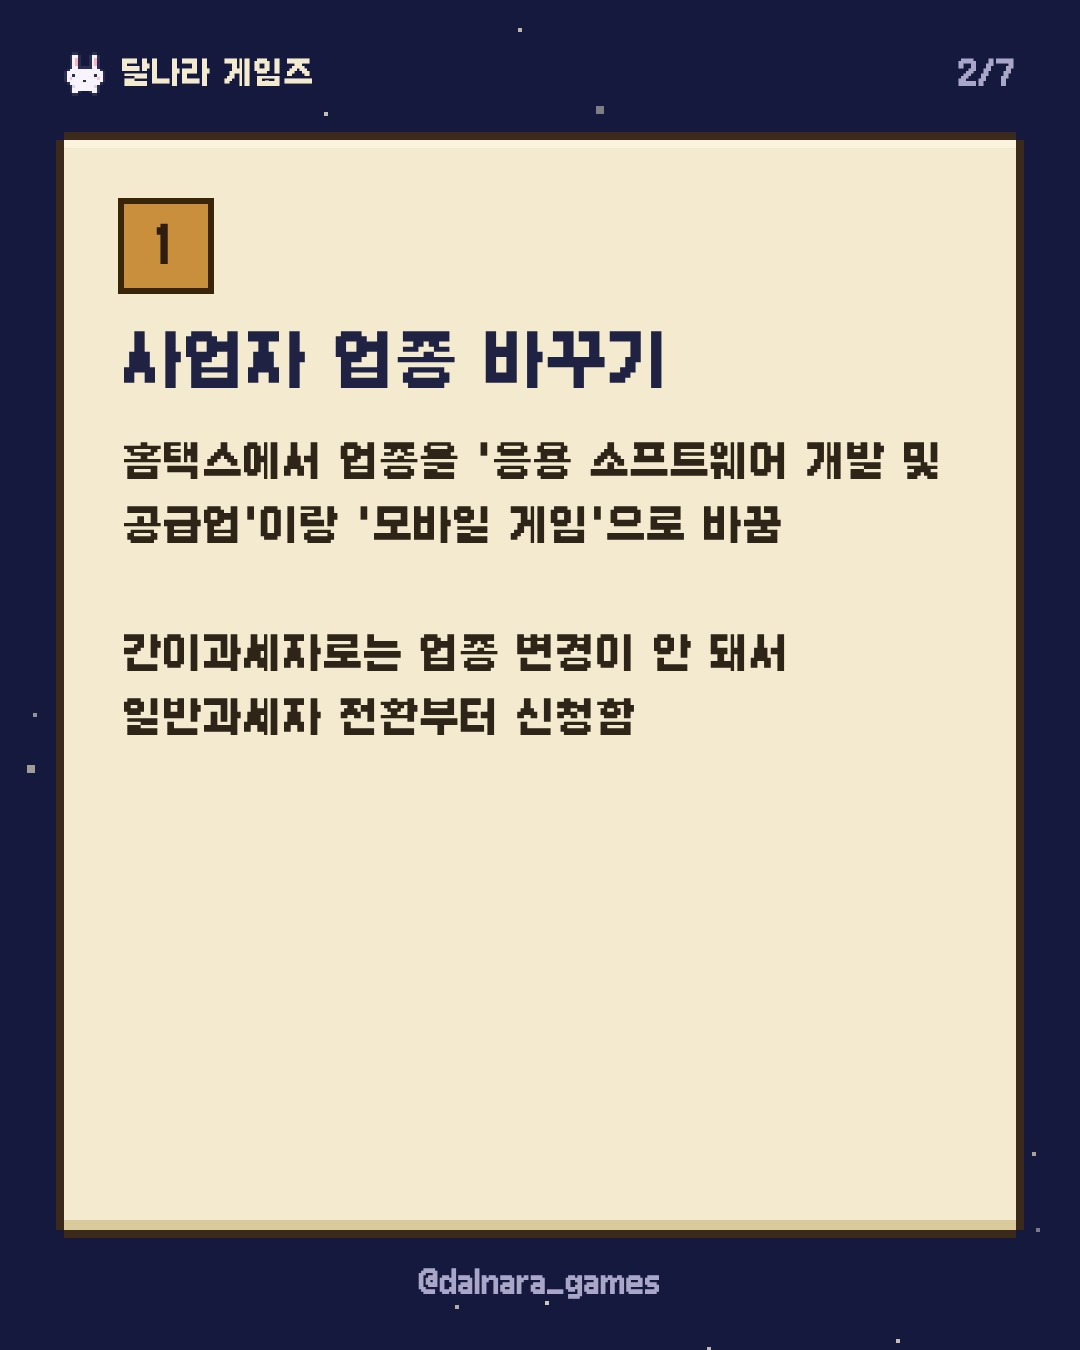
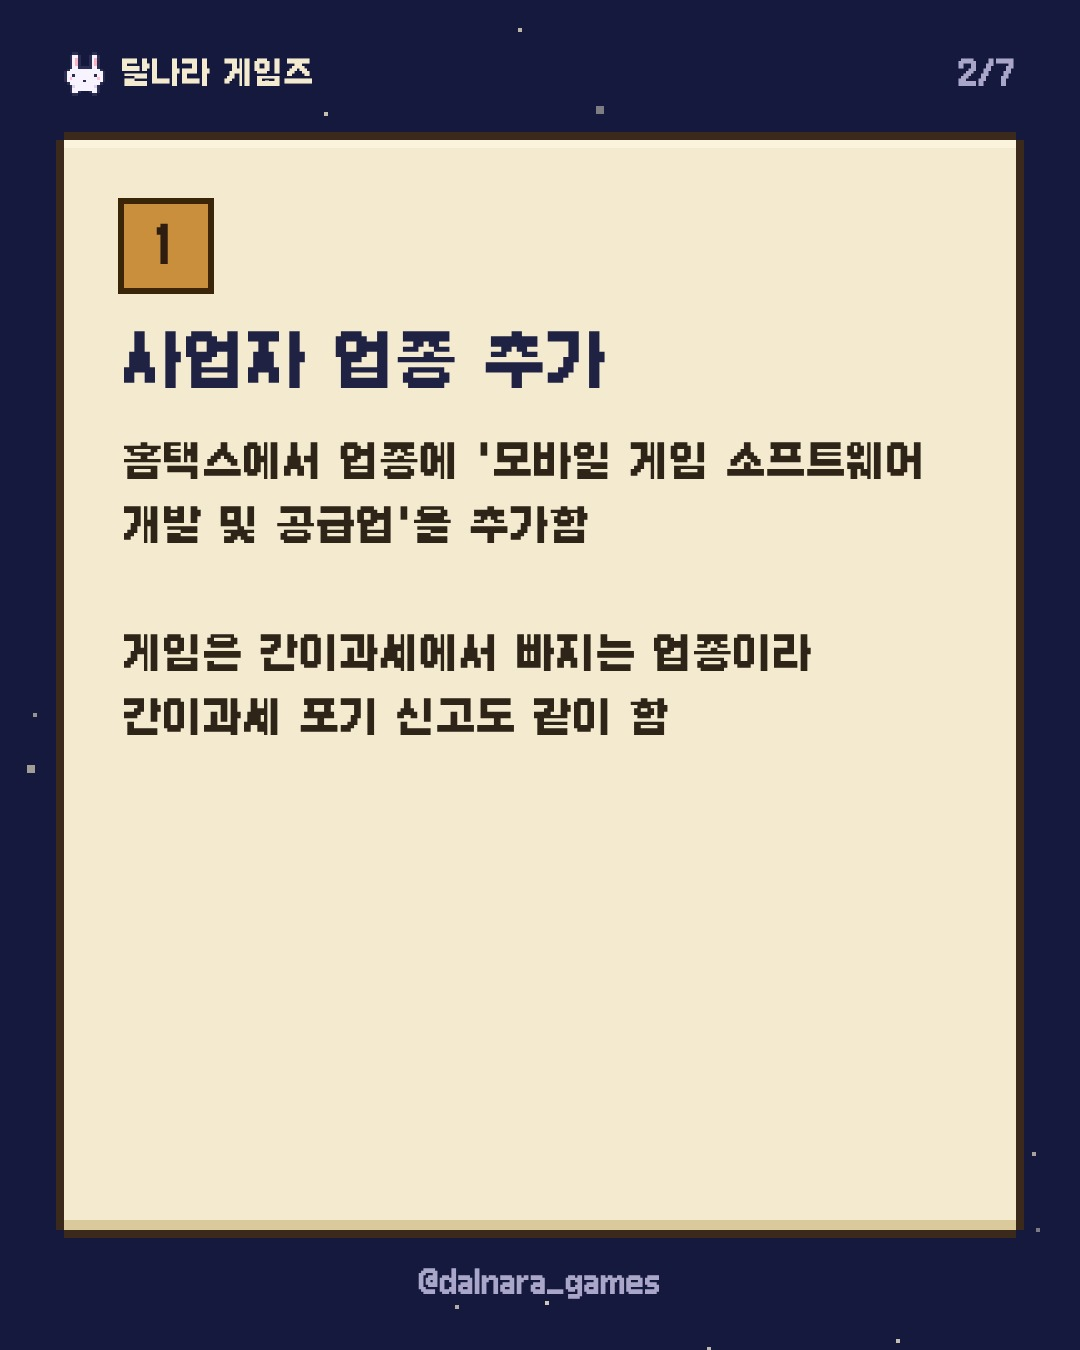
SNS 게시 목록: 11/9 카드뉴스 3장 고침 (개인 계정 유지 반영)
Claude-Session: https://claude.ai/code/session_01FLsPLfxv7h6r3gtgJWuoQW

diff --git a/sns/index.html b/sns/index.html
@@ -25,7 +25,7 @@ pre.copy{white-space:pre-wrap;word-break:keep-all;background:#fff8e6;color:var(-
   <div class="top"><a class="mark" href="../"><img class="px" src="../assets/rabbit.svg" alt="">달나라 게임즈</a></div>
   <div class="doc">
     <h1>게시 목록</h1>
-    <p class="when">인스타그램 @dalnara_games · 쓰레드 @dalnara_games · 오늘 11월 7일 (토)</p>
+    <p class="when">인스타그램 @dalnara_games · 쓰레드 @dalnara_games · 오늘 11월 8일 (일)</p>
   </div>
   <article class="paper" id="rules">
     <p class="meta">올리는 사람(브라우저의 Claude)에게</p>
@@ -52,15 +52,6 @@ pre.copy{white-space:pre-wrap;word-break:keep-all;background:#fff8e6;color:var(-
   </section>
   <section id="posts">
     <p class="label">01<b>게시물</b></p>
-<article class="paper post" id="2026-11-05"><h2>11월 5일 (목) · 첫 소개</h2>
-<p class="ch">인스타그램 · 사진 3장</p><div class="files"><a href="media/ig_1_sea.jpg" download><img src="media/ig_1_sea.jpg" alt="">1. ig_1_sea.jpg</a><a href="media/ig_2_catch.jpg" download><img src="media/ig_2_catch.jpg" alt="">2. ig_2_catch.jpg</a><a href="media/ig_3_tank.jpg" download><img src="media/ig_3_tank.jpg" alt="">3. ig_3_tank.jpg</a></div><pre class="copy">배 타고 나가서 낚고, 잡은 물고기로 수족관 채우는 게임 만드는 중
-1인 개발 · 구글 플레이 준비 중
-#인디게임 #도트게임 #1인개발 #낚시게임</pre>
-<p class="ch">쓰레드 · 사진 1장 · 주제 태그: 게임개발</p><div class="files"><a href="media/ig_1_sea.jpg" download><img src="media/ig_1_sea.jpg" alt="">ig_1_sea.jpg</a></div><pre class="copy">코드 하나도 모르는데 AI랑 게임 만드는 중
-배 타고 나가서 물고기 낚고 잡은 애들로 내 수족관 채우는 도트 게임임
-물고기 76종 넣었는데 나도 아직 다 못 낚아봄ㅋㅋ
-만드는 과정 여기 다 올릴 거임</pre>
-</article>
 <article class="paper post" id="2026-11-06"><h2>11월 6일 (금) · 낚시 영상</h2>
 <p class="ch">할 일 0 · 프로필 소개가 위 "프로필" 내용과 다르면 그대로 바꾸기 (인스타그램·쓰레드)</p>
 <p class="ch">인스타그램 · 릴스 영상</p><div class="files"><a href="media/reels_1.mp4" download><span class="vid">영상</span>reels_1.mp4</a></div><pre class="copy">찌가 쑥 들어가면 낚임! 잡은 애들은 수족관으로 ㅋㅋ
